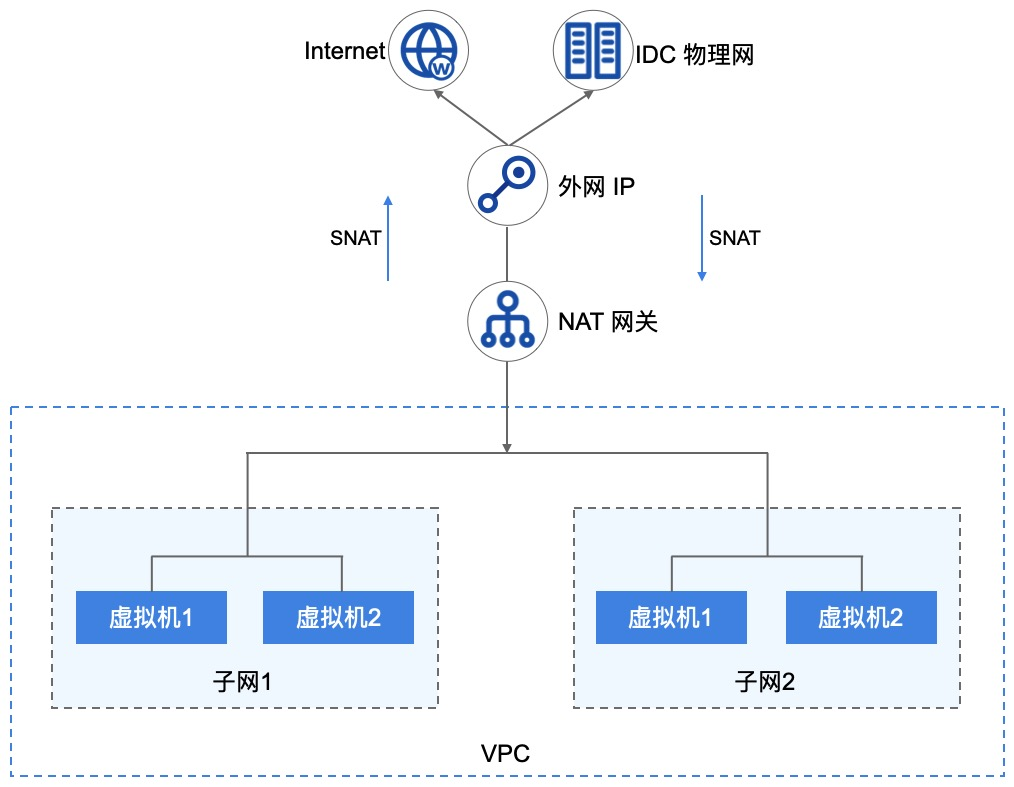
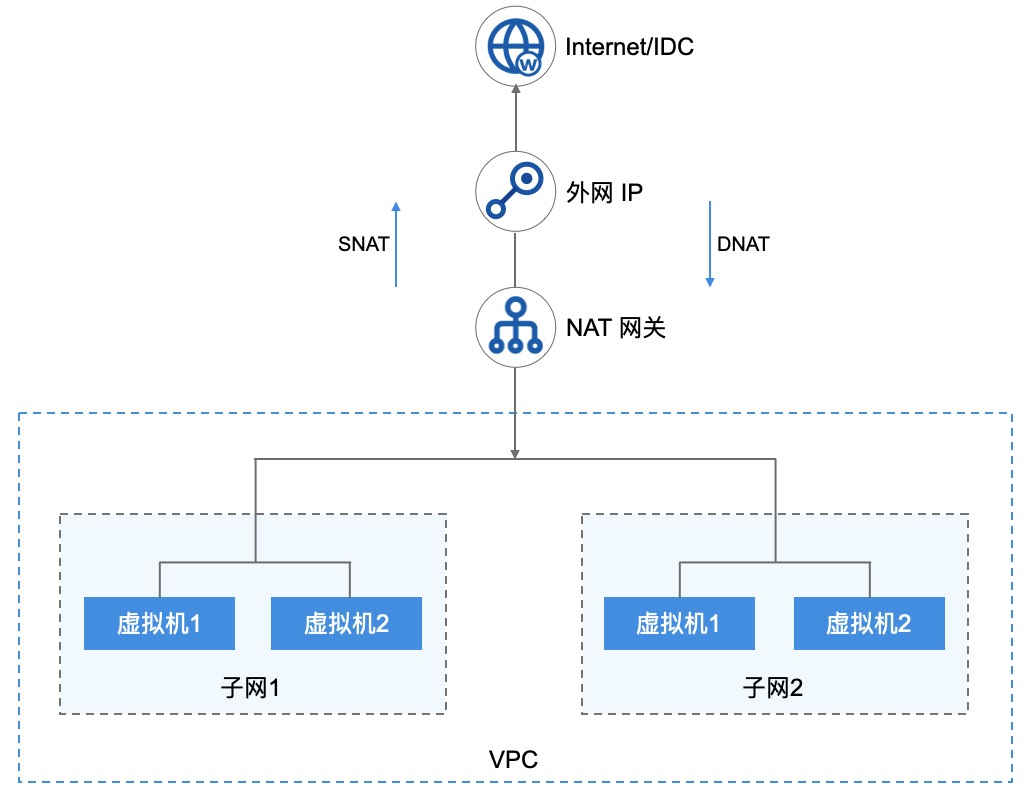
完成白皮书存储和网络部分

diff --git a/userguide/natgw.md b/userguide/natgw.md
@@ -4,11 +4,12 @@
 
 ### 12.1.1 概述
 
-NAT 网关（ NAT Gateway ）是一种类似 [NAT](https://zh.wikipedia.org/wiki/网络地址转换) 网络地址转换协议的 VPC 网关，为云平台资源提供 SNAT 和 DNAT 代理，支持互联网地址转换能力，并支持普通和白名单两种资源网络出口模式。
+NAT 网关（ NAT Gateway ）是一种类似 [NAT](https://zh.wikipedia.org/wiki/网络地址转换) 网络地址转换协议的 VPC 网关，为云平台资源提供 SNAT 和 DNAT 代理，支持互联网或物理网地址转换能力。平台 NAT 网关服务通过的 SNAT 和 DNAT 规则分别实现 VPC 内虚拟资源的 SNAT 转发和 DNAT 端口映射功能。
 
-用户可通过 NAT 网关让 VPC 子网中未绑定外网 IP 的虚拟机访问外网，同时可配置端口转发规则使虚拟机对外提供服务。作为一个虚拟网关设备，需要绑定外网 IP 作为 NAT 网关的默认统一出口，支持 VPC 、子网、虚拟机三种级别的 SNAT 规则，使不同维度的资源通过 NAT 网关访问外网。
+* SNAT 规则：通过 SNAT 规则实现 VPC 级、子网级及虚拟资源实例级的 SNAT 能力，使不同维度的资源通过 NAT 网关访问外网。
+* DNAT 规则：通过 DNAT 规则，可配置基于 TCP 和 UDP 两种协议的端口转发，将 VPC 内的云资源内网端口映射到 NAT 网关所绑定的外网 IP，对互联网或 IDC 数据中心网络提供服务。
 
-同时网关提供 DNAT 能力，支持配置基于 TCP 和 UDP 两种协议的端口转发，将 VPC 内的云资源内网端口映射到 NAT 网关所绑定的外网 IP，对互联网或 IDC 数据中心网络提供服务。NAT 网关具有地域（数据中心）属性，仅支持相同数据中心下同 VPC 虚拟资源的 SNAT 和 DNAT 转发服务。
+作为一个虚拟网关设备，需要绑定外网 IP 作为 NAT 网关的 SNAT 规则出口及 DNAT 规则的入口。NAT 网关具有地域（数据中心）属性，仅支持相同数据中心下同 VPC 虚拟资源的 SNAT 和 DNAT 转发服务，
 
 虚拟机通过 NAT 网关可访问的网络取决于绑定的外网 IP 所属网段在物理网络上的配置，若所绑定的外网 IP 可通向互联网，则虚拟机可通过 NAT 网关访问互联网；若所绑定的外网 IP 可通向 IDC 数据中心的物理网络，则虚拟机通过 NAT 网关访问 IDC 数据中心的物理网络。
 
@@ -16,7 +17,7 @@ NAT 网关（ NAT Gateway ）是一种类似 [NAT](https://zh.wikipedia.org/wiki
 
 用户在平台使用虚拟机部署应用服务时，有访问外网或通过外网访问虚拟机的应用场景，通常我们会在每一台虚拟机上绑定一个外网 IP 用于和互联网或 IDC 数据中心网络进行通信。真实环境和案例中，可能无法分配足够的公网 IP ，即使公网 IP 足够也无需在每一台需要访问外网的虚拟机上绑定外网 IP 地址。
 
-- 共享 EIP ：通过 SNAT 代理，使多台 VPC 内网虚拟机共享 1 个 外网 IP 地址访问互联网或 IDC 数据中心的物理网络。
+- 共享 EIP ：通过 SNAT 代理，使多台 VPC 内网虚拟机共享 1 个或多个外网 IP 地址访问互联网或 IDC 数据中心的物理网络。
 - 屏蔽真实 IP ：通过 SNAT 代理，多台 VPC 内网虚拟机使用代理 IP 地址通信，自动屏蔽真实 IP 内网地址。
 - VPC 内网虚拟机提供外网服务：通过 DNAT 代理，配置 IP 及端口转发，对互联网或 IDC 数据中心的网络提供业务服务。
 
@@ -62,7 +63,7 @@ NAT 网关通过 SNAT 规则支持 SNAT（Source Network Address Translation 源
 
 规则的目标地址为 NAT 网关绑定的外网 IP 地址，通过规则策略即可将源地址在 VPC 、子网、虚拟机的 IP 地址转换为网关绑定的外网 IP 进行网络通信，即通过 SNAT 规则虚拟机可在不绑定外网  IP 的情况下与平台外网进行通信，如访问 IDC 数据中心网络或互联网。
 
-SNAT 规则中不同源地址类型的规则优先级不同，以优先级高的规则为准：
+SNAT 规则中不同源地址类型的规则优先级不同，以优先级高的规则为准： 
 
 **（1）源地址为 VPC ** 
 
